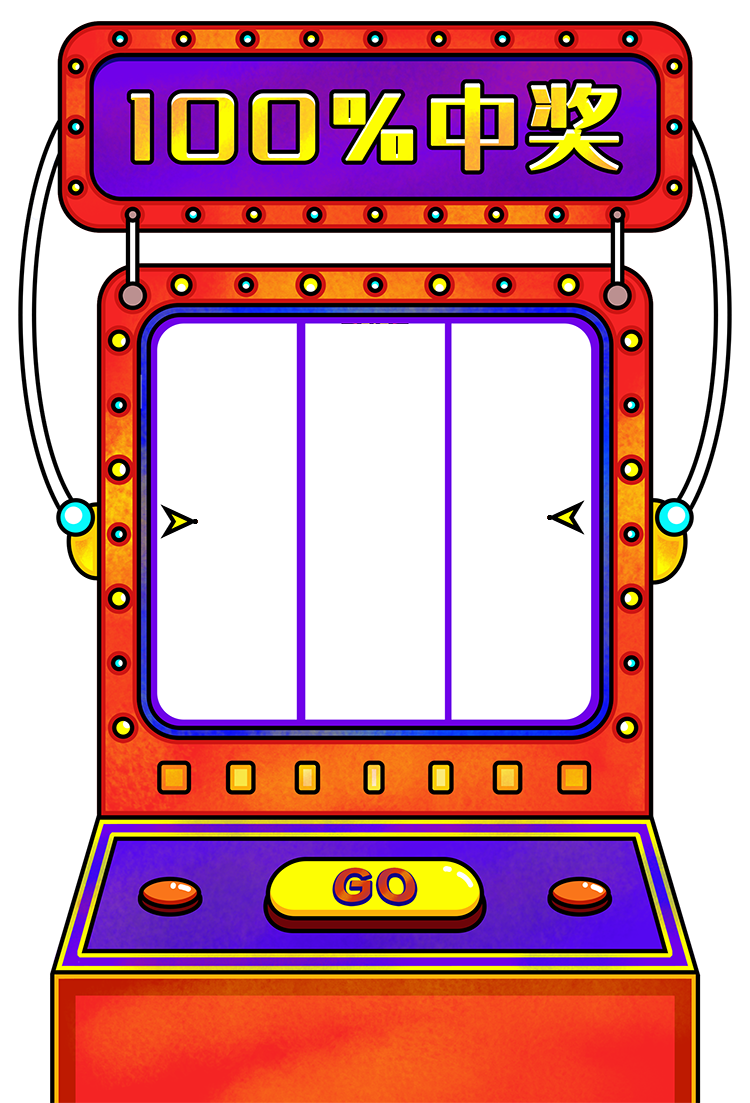
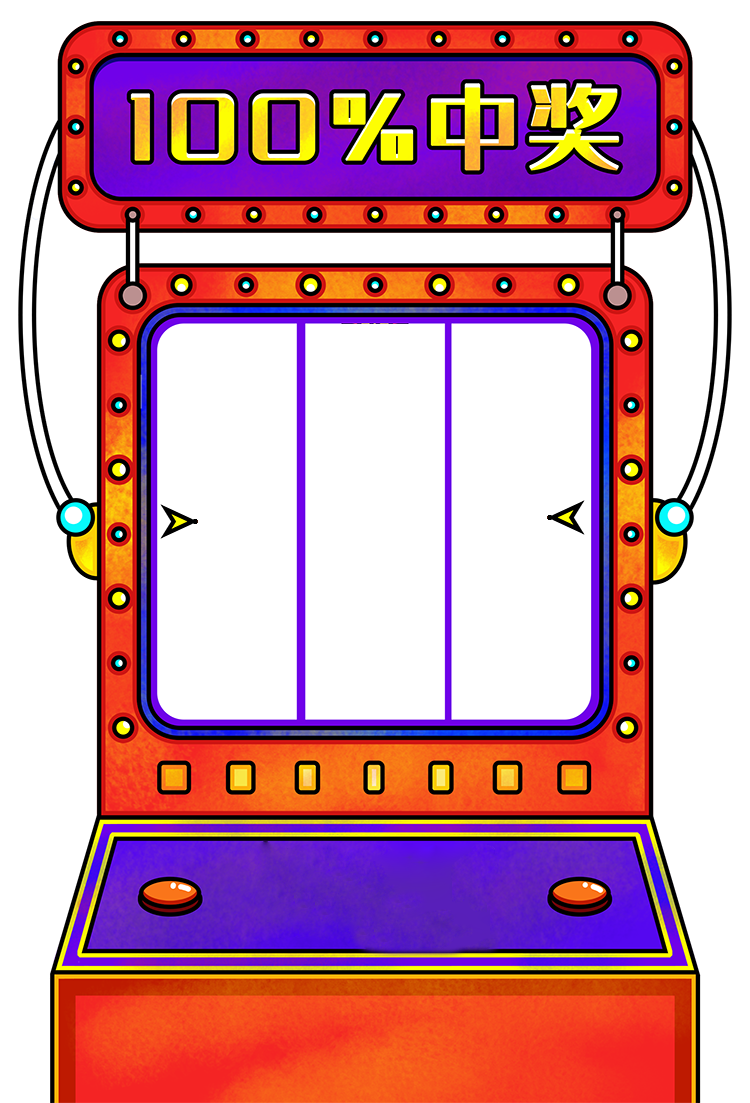
:art:老虎机完成

Changed region(s): [[0.3373, 0.7706, 0.6747, 0.8939]]

diff --git a/app/src/game/DrawColum.ts b/app/src/game/DrawColum.ts
@@ -1,53 +1,62 @@
 class DrawColum extends BaseScene {
 
-    // 上一帧的时间差
-    private timeOnEnterFrame: number = 0;
+    private itemcon: egret.DisplayObjectContainer
+    private itemconHeight: number
 
     initView() {
 
         this.width = 134
         this.createImsItem()
+
     }
 
     private createImsItem() {
-        // var con = new egret.DisplayObjectContainer()
-        // let ims = Utils.createBitmapByName('prize06_png')
-        // con.width = 134
-        // con.height = 134
-        // ims.width = 120
-        // ims.height = 120
-        // ims.anchorOffsetX = ims.width / 2
-        // ims.anchorOffsetY = ims.height / 2
-        // ims.x = con.width / 2
-        // ims.y = con.height / 2
-        // con.addChild(ims)
-        var con = new egret.DisplayObjectContainer()
-        con.width = 134
-        // con.height = 134
+        // 每一列的容器
+        this.itemcon = new egret.DisplayObjectContainer()
+        this.itemcon.width = 134
 
+        // 图片数组
+        var imgArr = []
         for (let index = 0; index < 9; index++) {
-            console.log(index)
-            let ims = Utils.createBitmapByName(`prize0${index + 1}_png`)
+            imgArr.push(`prize0${index + 1}_png`)
+        }
+        imgArr = [...imgArr, ...imgArr, ...imgArr, ...imgArr, ...imgArr]
+        this.itemconHeight = imgArr.length * 134
+        for (let index = 0; index < imgArr.length; index++) {
+
+            // 每个图片的格式容器
+            var imsCon = new egret.Sprite()
+            imsCon.width = 134
+            imsCon.height = 134
+            imsCon.x = 0
+            imsCon.y = imsCon.height * index
+
+            // 添加图片并居中
+            let ims = Utils.createBitmapByName(imgArr[index])
             ims.width = 120
             ims.height = 120
             ims.anchorOffsetX = ims.width / 2
             ims.anchorOffsetY = ims.height / 2
-            ims.x = 134 / 2
-            ims.y = 134 / 2 + 134 * index
-            con.addChild(ims)
+            ims.x = imsCon.width / 2
+            ims.y = imsCon.width / 2
+
+            imsCon.addChild(ims)
+            this.itemcon.addChild(imsCon)
+
         }
 
-        this.addChild(con)
+        this.addChild(this.itemcon)
 
-        this.addEventListener(egret.Event.ENTER_FRAME, () => {
-            var now = egret.getTimer();
-            var time = this.timeOnEnterFrame;
-            var pass = now - time;
-            this.timeOnEnterFrame = egret.getTimer();
+    }
 
-            con.y +=  -(100 / pass)
-
-        }, this)
+    scroll(delay: number = 0) {
+        this.itemcon.y = 0
+        egret.Tween.removeTweens(this.itemcon);
+        var tw = egret.Tween.get(this.itemcon);
+        tw.wait(delay)
+        tw.to({ x: 0, y: -(this.itemconHeight - 134 * 3) }, 5800, egret.Ease.sineInOut).call(() => {
+            console.log(this.itemcon.height)
+        })
     }
 
 }

diff --git a/app/src/game/DrawBox.ts b/app/src/game/DrawBox.ts
@@ -1,15 +1,35 @@
 class DrawBox extends BaseScene {
+
+    private colum1: any
+    private colum2: any
+    private colum3: any
+
     initView() {
-        var shp:egret.Shape = new egret.Shape();
+        var shp: egret.Shape = new egret.Shape();
         this.width = 434
         this.x = 158
         this.y = 424
-        // shp.graphics.beginFill( 0xff0000, 1);
-        // shp.graphics.drawRoundRect(0, 0, 434, 400, 50, 50);
-        // shp.graphics.endFill();
-        // this.addChild( shp );
-        let drawCols = new DrawColum()
-        this.addChild( drawCols );
+        shp.graphics.beginFill(0xff0000, 1);
+        shp.graphics.drawRoundRect(0, 0, 434, 400, 50, 50);
+        shp.graphics.endFill();
+        this.addChild(shp);
 
+
+        this.colum1 = new DrawColum()
+        this.colum2 = new DrawColum()
+        this.colum3 = new DrawColum()
+        this.colum2.x = 150
+        this.colum3.x = 294
+        this.mask = shp
+        this.addChild(this.colum1);
+        this.addChild(this.colum2);
+        this.addChild(this.colum3);
+
+    }
+
+    start() {
+        this.colum1.scroll(0)
+        this.colum2.scroll(200)
+        this.colum3.scroll(400)
     }
 }

diff --git a/app/src/game/GoBtn.ts b/app/src/game/GoBtn.ts
@@ -1,0 +1,25 @@
+class GoBtn extends BaseScene {
+
+    private gobtn: egret.Bitmap
+
+    initView() {
+        this.gobtn = Utils.createBitmapByName('gobtn_png')
+        this.width = 225
+        this.height = 76
+        this.x = Utils.getStageWidth() / 2 - this.width / 2
+        this.y = 960
+
+        this.addChild(this.gobtn);
+
+
+
+    }
+
+    btnHandle(cb: Function) {
+        Utils.bitmapToBtn(this.gobtn, () => {
+            // 开始游戏
+            // SceneController.showPlayScene()
+            cb()
+        })
+    }
+}

diff --git a/app/src/game/Example.ts b/app/src/game/Example.ts
@@ -19,7 +19,18 @@ class Example extends BaseScene {
 
 
         var sound:egret.Sound = RES.getRes("bg_mp3");
+        sound.play();
+
+        // var sound:egret.Sound = RES.getRes("bg_mp3");
         // sound.play();
+
+        // 开始按钮
+        let gobtn = new GoBtn()
+        this.addChild(gobtn)
+        gobtn.btnHandle(()=>{
+            drawbox.start()
+        })
+
 
     }
 }
